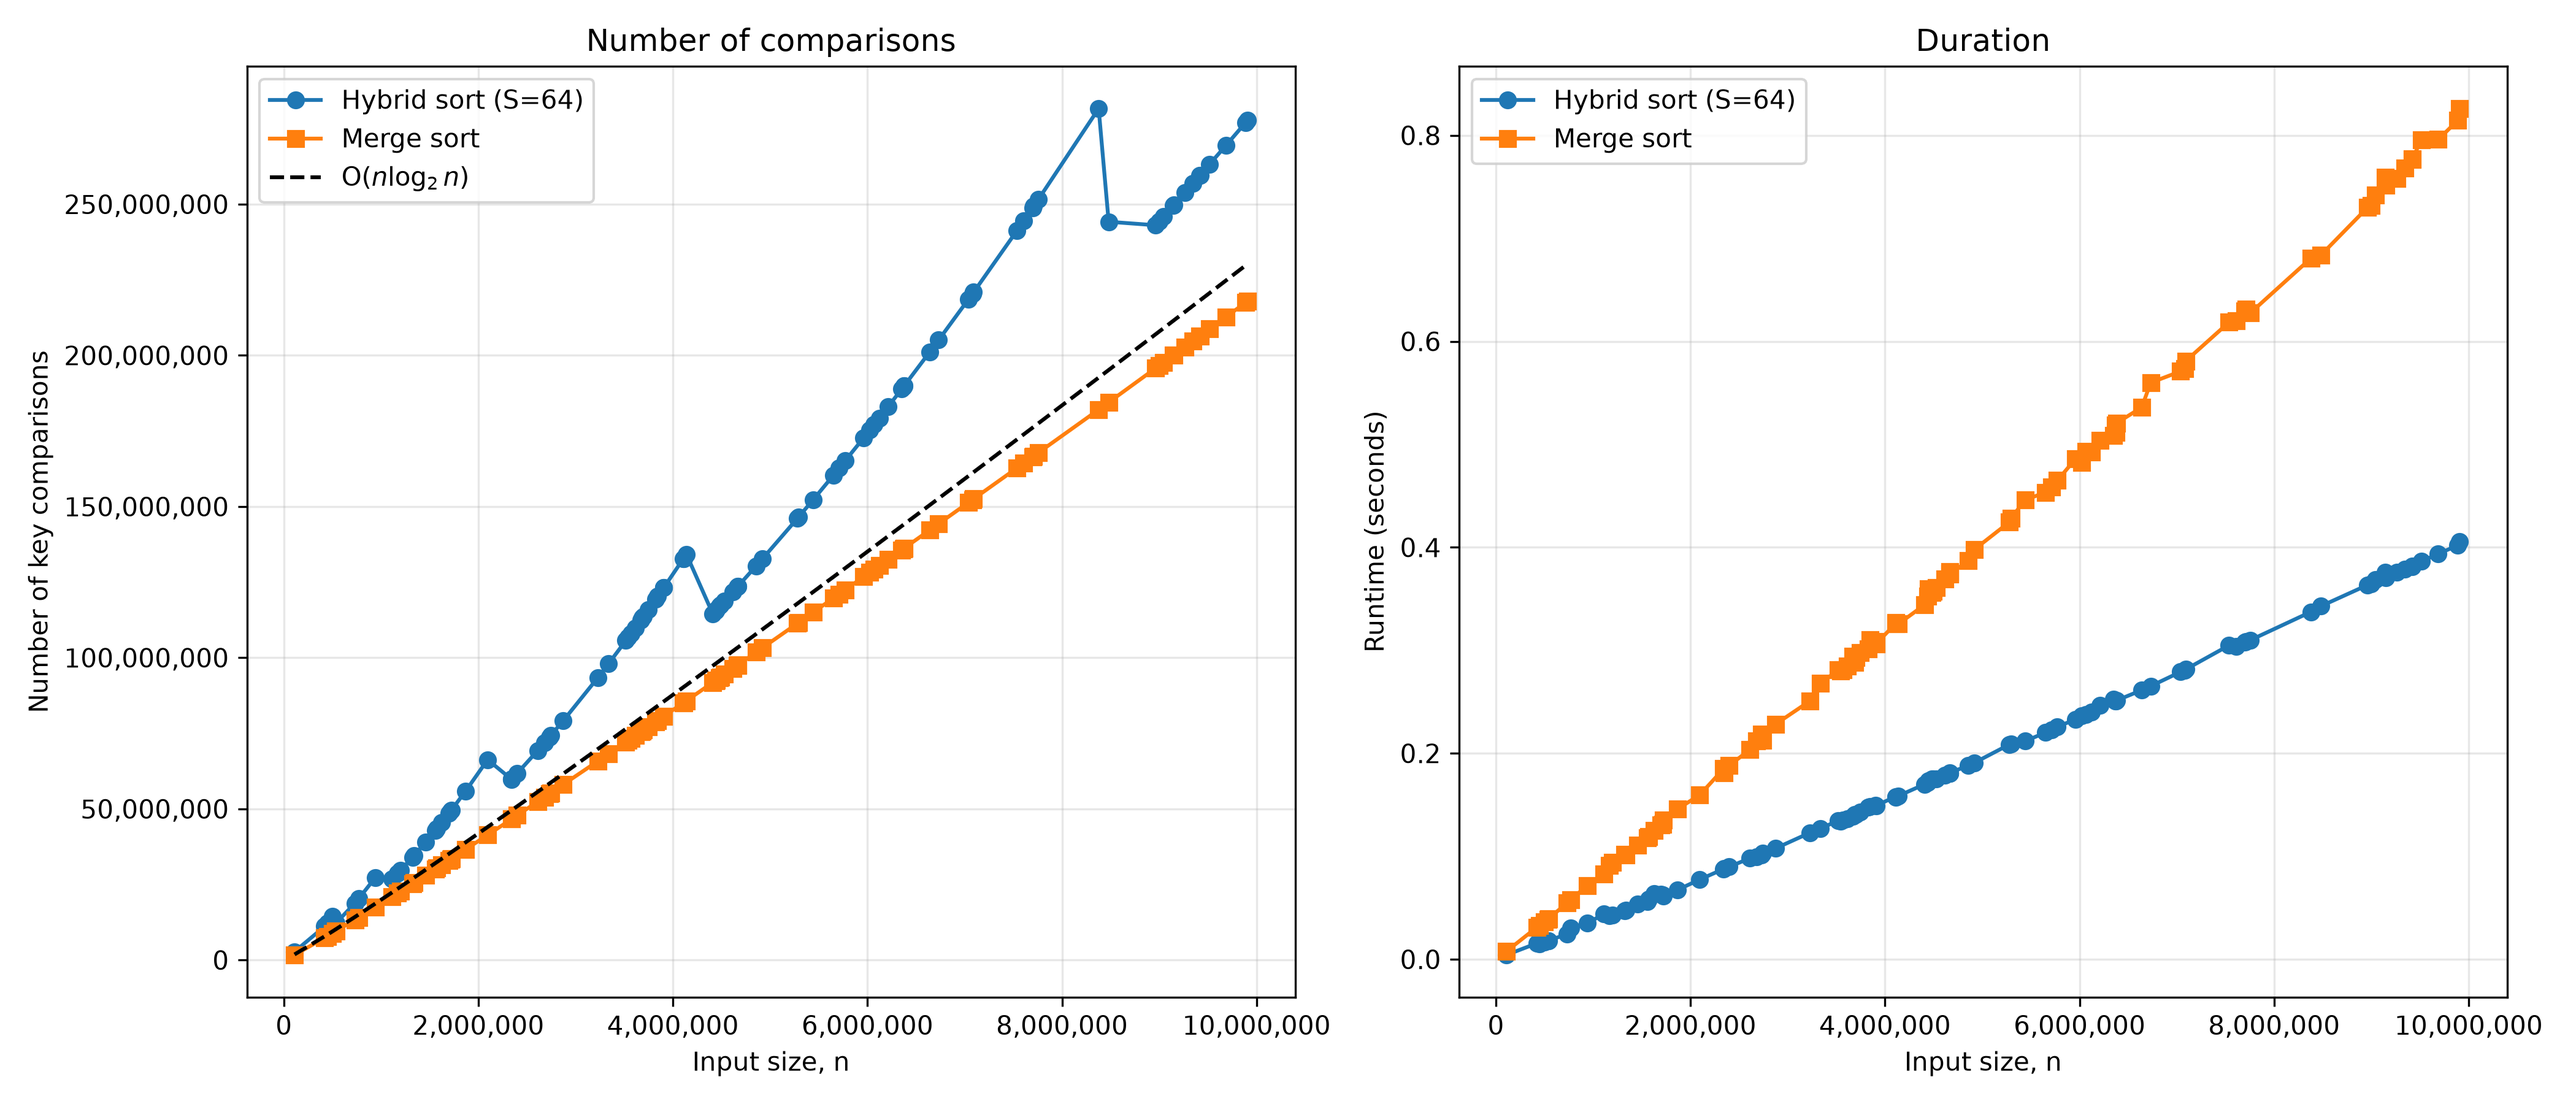
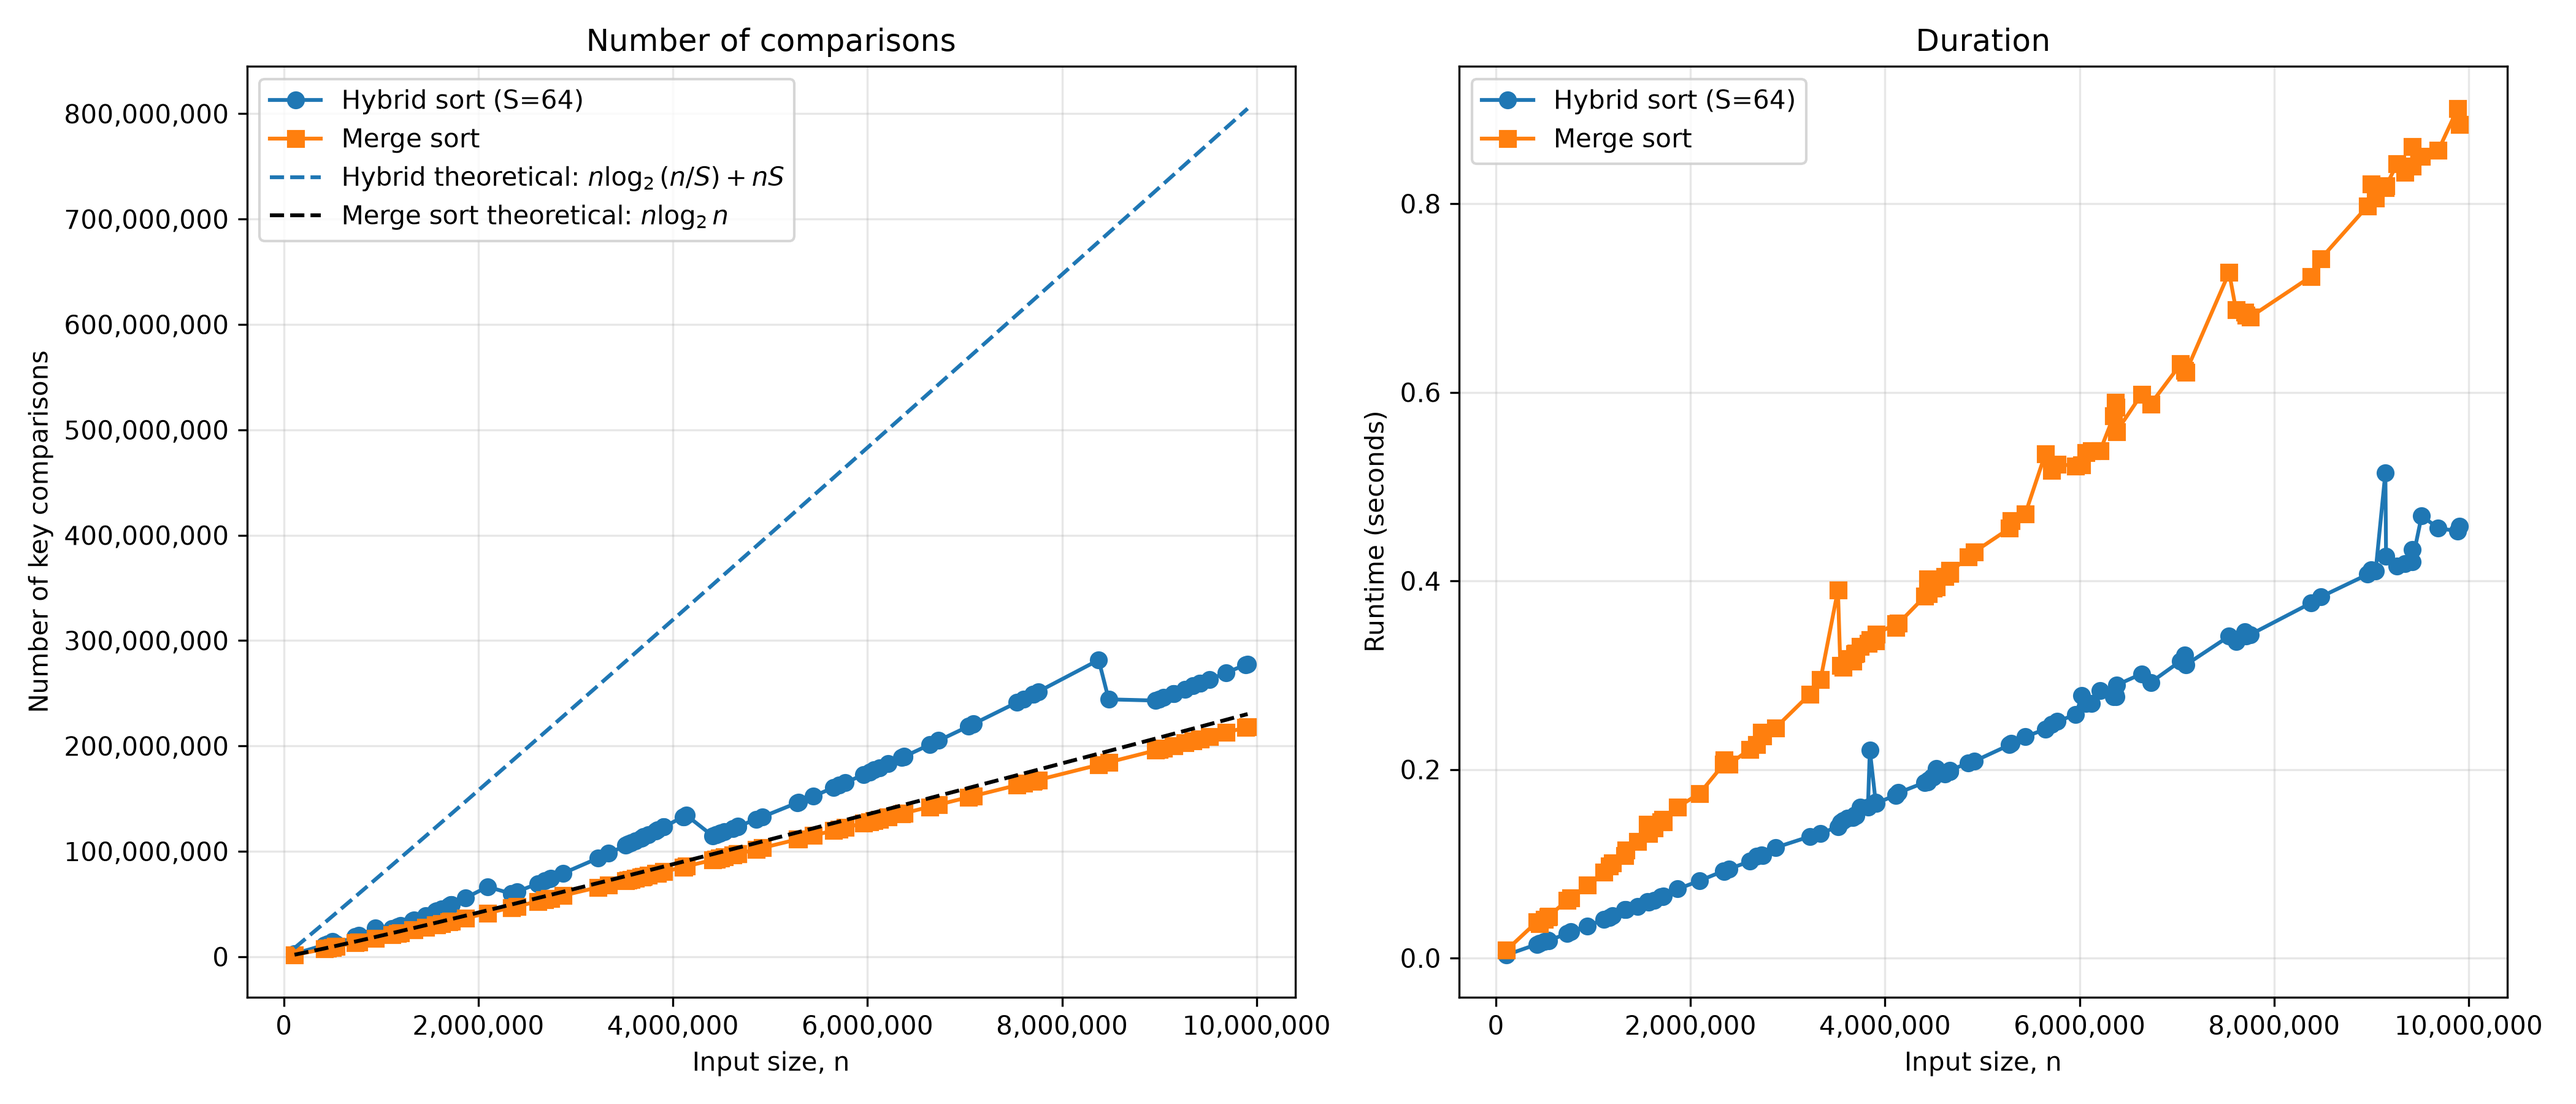
add thereotical line to graph

diff --git a/main.py b/main.py
@@ -83,6 +83,20 @@ def plot_comparisons_and_durations(
         (comparison_line, duration_line),
     )
 
+def merge_theoretical_comparisons(n):
+    # Upper bound for merge sort: log2(n) levels, at most n comparisons each.
+    return n * math.log2(n) if n > 1 else 0
+
+def hybrid_theoretical_comparisons(n, S):
+    # Worst case: insertion sort on n/S subarrays of size <= S costs at most
+    # n(S-1)/2, plus log2(n/S) merge levels of at most n comparisons each.
+    if n <= S:
+        return n * (n - 1) / 2
+    return n * math.log2(n / S) + n * S
+
+HYBRID_THEORETICAL_LABEL = r"$n\log_2(n/S) + nS$"
+MERGE_THEORETICAL_LABEL = r"$n\log_2 n$"
+
 def sanity_check():
     arr = [5, 2, 9, 1, 5, 6]
     print(f"Original array: {arr}")
@@ -132,17 +146,20 @@ def plot_over_input_size(dataset, S, show_plot: bool = False):
         },
     )
 
-    theoretical_comparisons = [
-        n * math.log2(n)
-        for n in input_sizes
-    ]
-
     theoretical_line, = ax_comparisons.plot(
         input_sizes,
-        theoretical_comparisons,
+        [merge_theoretical_comparisons(n) for n in input_sizes],
         color="black",
         linestyle="--",
-        label="O($n\log_2 n$)",
+        label=f"Merge sort theoretical: {MERGE_THEORETICAL_LABEL}",
+    )
+
+    hybrid_theoretical_line, = ax_comparisons.plot(
+        input_sizes,
+        [hybrid_theoretical_comparisons(n, S) for n in input_sizes],
+        color="tab:blue",
+        linestyle=":",
+        label=f"Hybrid theoretical: {HYBRID_THEORETICAL_LABEL}",
     )
 
     ax_comparisons.xaxis.set_major_formatter(
@@ -152,7 +169,7 @@ def plot_over_input_size(dataset, S, show_plot: bool = False):
         StrMethodFormatter("{x:,.0f}")
     )
 
-    legend_lines = [*lines, theoretical_line]
+    legend_lines = [*lines, theoretical_line, hybrid_theoretical_line]
 
     ax_comparisons.legend(
         legend_lines,
@@ -250,16 +267,6 @@ def compare_hybrid_merge(dataset, S, show_plot: bool = False):
     input_sizes, hybrid_comparisons, hybrid_durations = benchmark(dataset, S)
     _, merge_comparisons, merge_durations = benchmark(dataset, 1)
 
-    # Exact worst-case comparison count for merge sort.
-    theoretical_comparisons = []
-    for n in input_sizes:
-        if n <= 1:
-            theoretical_comparisons.append(0)
-        else:
-            theoretical_comparisons.append(
-                n * math.log2(n)
-            )
-
     fig, (ax_comparisons, ax_duration) = plt.subplots(
         1,
         2,
@@ -282,10 +289,17 @@ def compare_hybrid_merge(dataset, S, show_plot: bool = False):
     )
     ax_comparisons.plot(
         input_sizes,
-        theoretical_comparisons,
+        [hybrid_theoretical_comparisons(n, S) for n in input_sizes],
+        color="tab:blue",
+        linestyle="--",
+        label=f"Hybrid theoretical: {HYBRID_THEORETICAL_LABEL}",
+    )
+    ax_comparisons.plot(
+        input_sizes,
+        [merge_theoretical_comparisons(n) for n in input_sizes],
         color="black",
         linestyle="--",
-        label=r"O($n\log_2 n$)",
+        label=f"Merge sort theoretical: {MERGE_THEORETICAL_LABEL}",
     )
 
     ax_duration.plot(
@@ -341,9 +355,9 @@ if __name__ == "__main__":
 
     dataset = list(data_generator.dataset(100))
 
-    plot_over_input_size(dataset, S=16, show_plot=True)
+    # plot_over_input_size(dataset, S=32, show_plot=True)
 
     # plot_over_s(30, [1000, 100_000, 10_000_000], [4, 8, 16, 32, 64, 128, 256])
 
-    # S = 64
-    # compare_hybrid_merge(dataset, S)
+    S = 64
+    compare_hybrid_merge(dataset, S)

diff --git a/README.md b/README.md
@@ -79,6 +79,74 @@ Using the C++ implementation requires a C++ compiler. On Windows, you may be
 prompted to install Microsoft Visual C++ (MSVC) if the necessary build tools
 are missing. Go ahead with the MSVC installation to use C++ for this project.
 
+## Results
+
+The plots below were generated with the C++ backend. The arrays hold random
+integers in `[1, 10^9)`. All durations come from a single machine, so small
+spikes in the duration curves are timing noise.
+
+### Choosing the threshold S
+
+![Comparisons and duration against threshold S](plot_over_s.png)
+
+`plot_over_s(30, [1000, 100_000, 10_000_000], [4, 8, 16, 32, 64, 128, 256])`
+sorts 30 arrays for each size and threshold. The thick line is the average and
+the faint lines are individual samples.
+
+- **Comparisons rise steadily with S.** Insertion sort makes about `S²/4`
+  comparisons on a random subarray of size `S`, so larger subarrays quickly
+  cost more than merging them would.
+- **Duration is U-shaped, with its minimum at S = 64 for all three sizes.** At
+  n = 10,000,000, S = 64 takes about 0.45 s against about 0.62 s at S = 4,
+  roughly 27% faster. S = 128 is almost as fast.
+- **Comparison count does not predict runtime.** Insertion sort's comparisons
+  are cheap: they swap neighbouring elements in memory the CPU already has
+  cached, and they allocate nothing. Every merge copies both halves into new
+  vectors, so removing the smallest merges saves more time than the extra
+  comparisons cost, up to about S = 64.
+
+### Hybrid sort against input size (S = 32)
+
+![Hybrid sort comparisons and duration against input size](plot_over_n.png)
+
+`plot_over_input_size` sorts 100 arrays with sizes between 1,000 and
+10,000,000.
+
+- **Comparisons grow like `n log n`.** They stay slightly above the
+  `n log₂ n` line (about 240M against 232M at n = 10M). The extra comes from
+  insertion sort on the size-32 subarrays.
+- **The hybrid theoretical curve `n log₂(n/S) + nS` sits well above the data**
+  (about 500M at n = 10M). It is an asymptotic bound whose `nS` term has no
+  constant factor. On random input, insertion sort costs closer to `nS/4`.
+- **The count drops slightly at n ≈ 4.19M and n ≈ 8.39M.** These sizes are
+  `32 × 2^17` and `32 × 2^18`. Just below them, recursion stops at subarrays
+  of about 32 elements, the most expensive case for insertion sort. Just
+  above, one more split happens and the subarrays shrink to about 16, so
+  comparisons fall even though n grew.
+- **Duration grows almost linearly**, reaching about 0.43 s at n = 10M.
+
+### Hybrid sort against merge sort (S = 64)
+
+![Hybrid sort compared with merge sort](plot_hybrid_vs_merge.png)
+
+`compare_hybrid_merge` runs both algorithms on the same 100 arrays. Merge sort
+is the hybrid algorithm with `S = 1`.
+
+- **Merge sort makes fewer comparisons**, about 218M at n = 10M. This sits just
+  under its `n log₂ n` bound. Hybrid sort makes about 278M, roughly 27% more.
+- **Hybrid sort is about twice as fast** (about 0.46 s against 0.89 s at
+  n = 10M), and the gap widens as n grows.
+- The same drops at `64 × 2^16` and `64 × 2^17` appear in the hybrid
+  comparison curve, for the same reason as above.
+
+### Conclusion
+
+A threshold of about **S = 64** gives the fastest hybrid merge sort at every
+input size tested. It halves the runtime of plain merge sort even though it
+performs more key comparisons. Counting comparisons captures the algorithm's
+asymptotic cost, but real runtime also depends on memory allocation, copying,
+and cache behaviour, which favour insertion sort on small subarrays.
+
 ## Files
 
 - `main.py` contains the benchmarking and plotting code.
